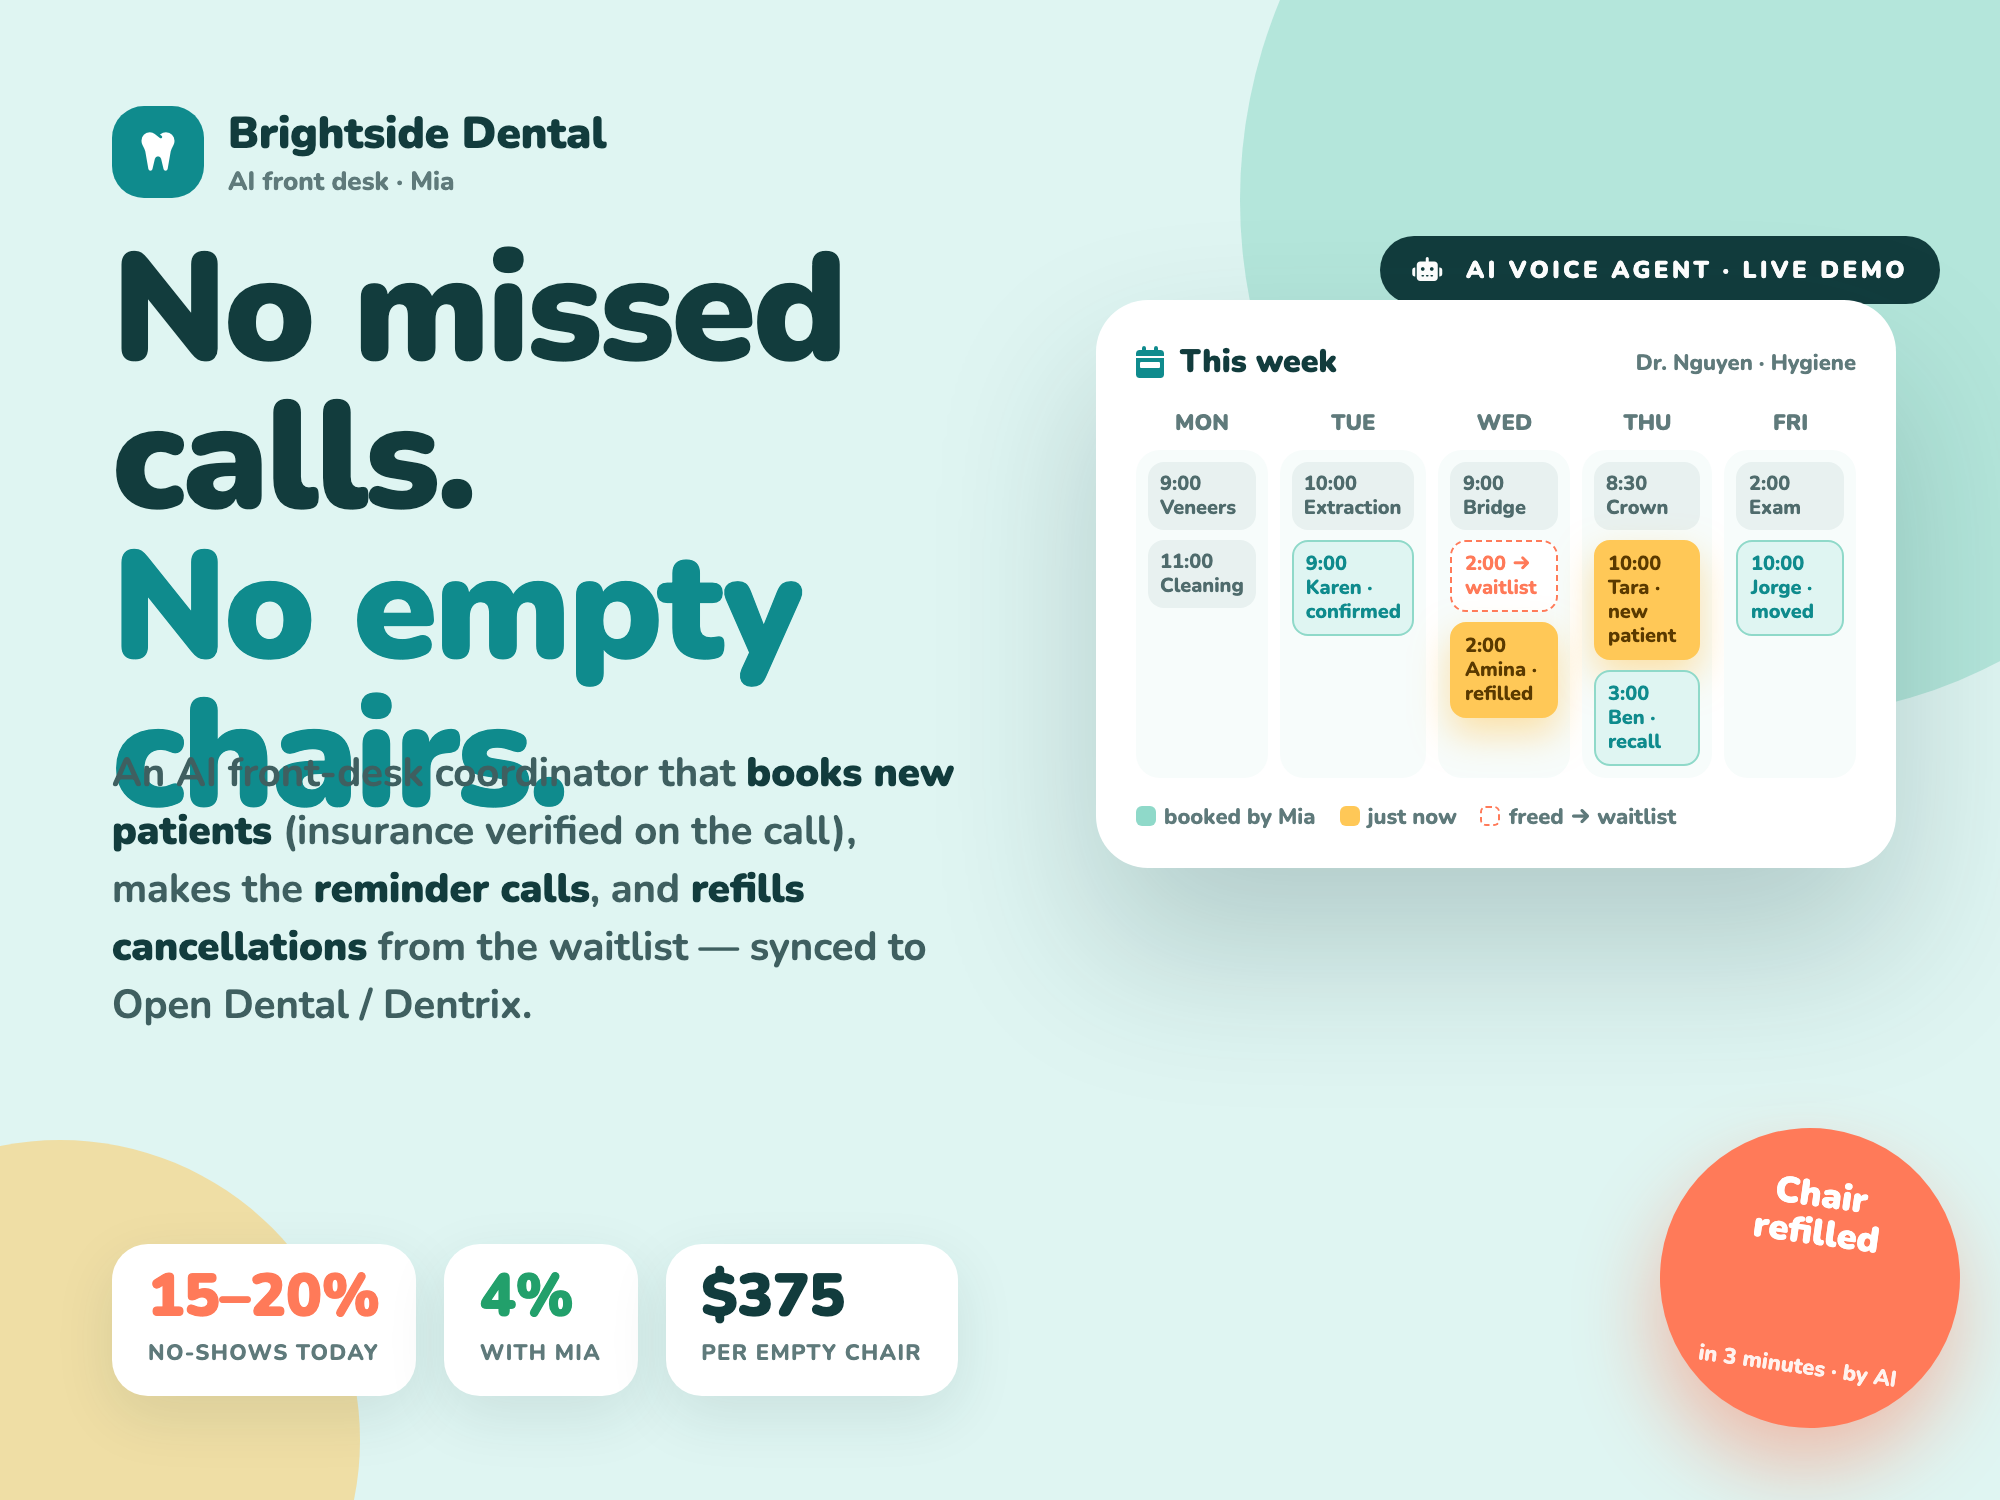
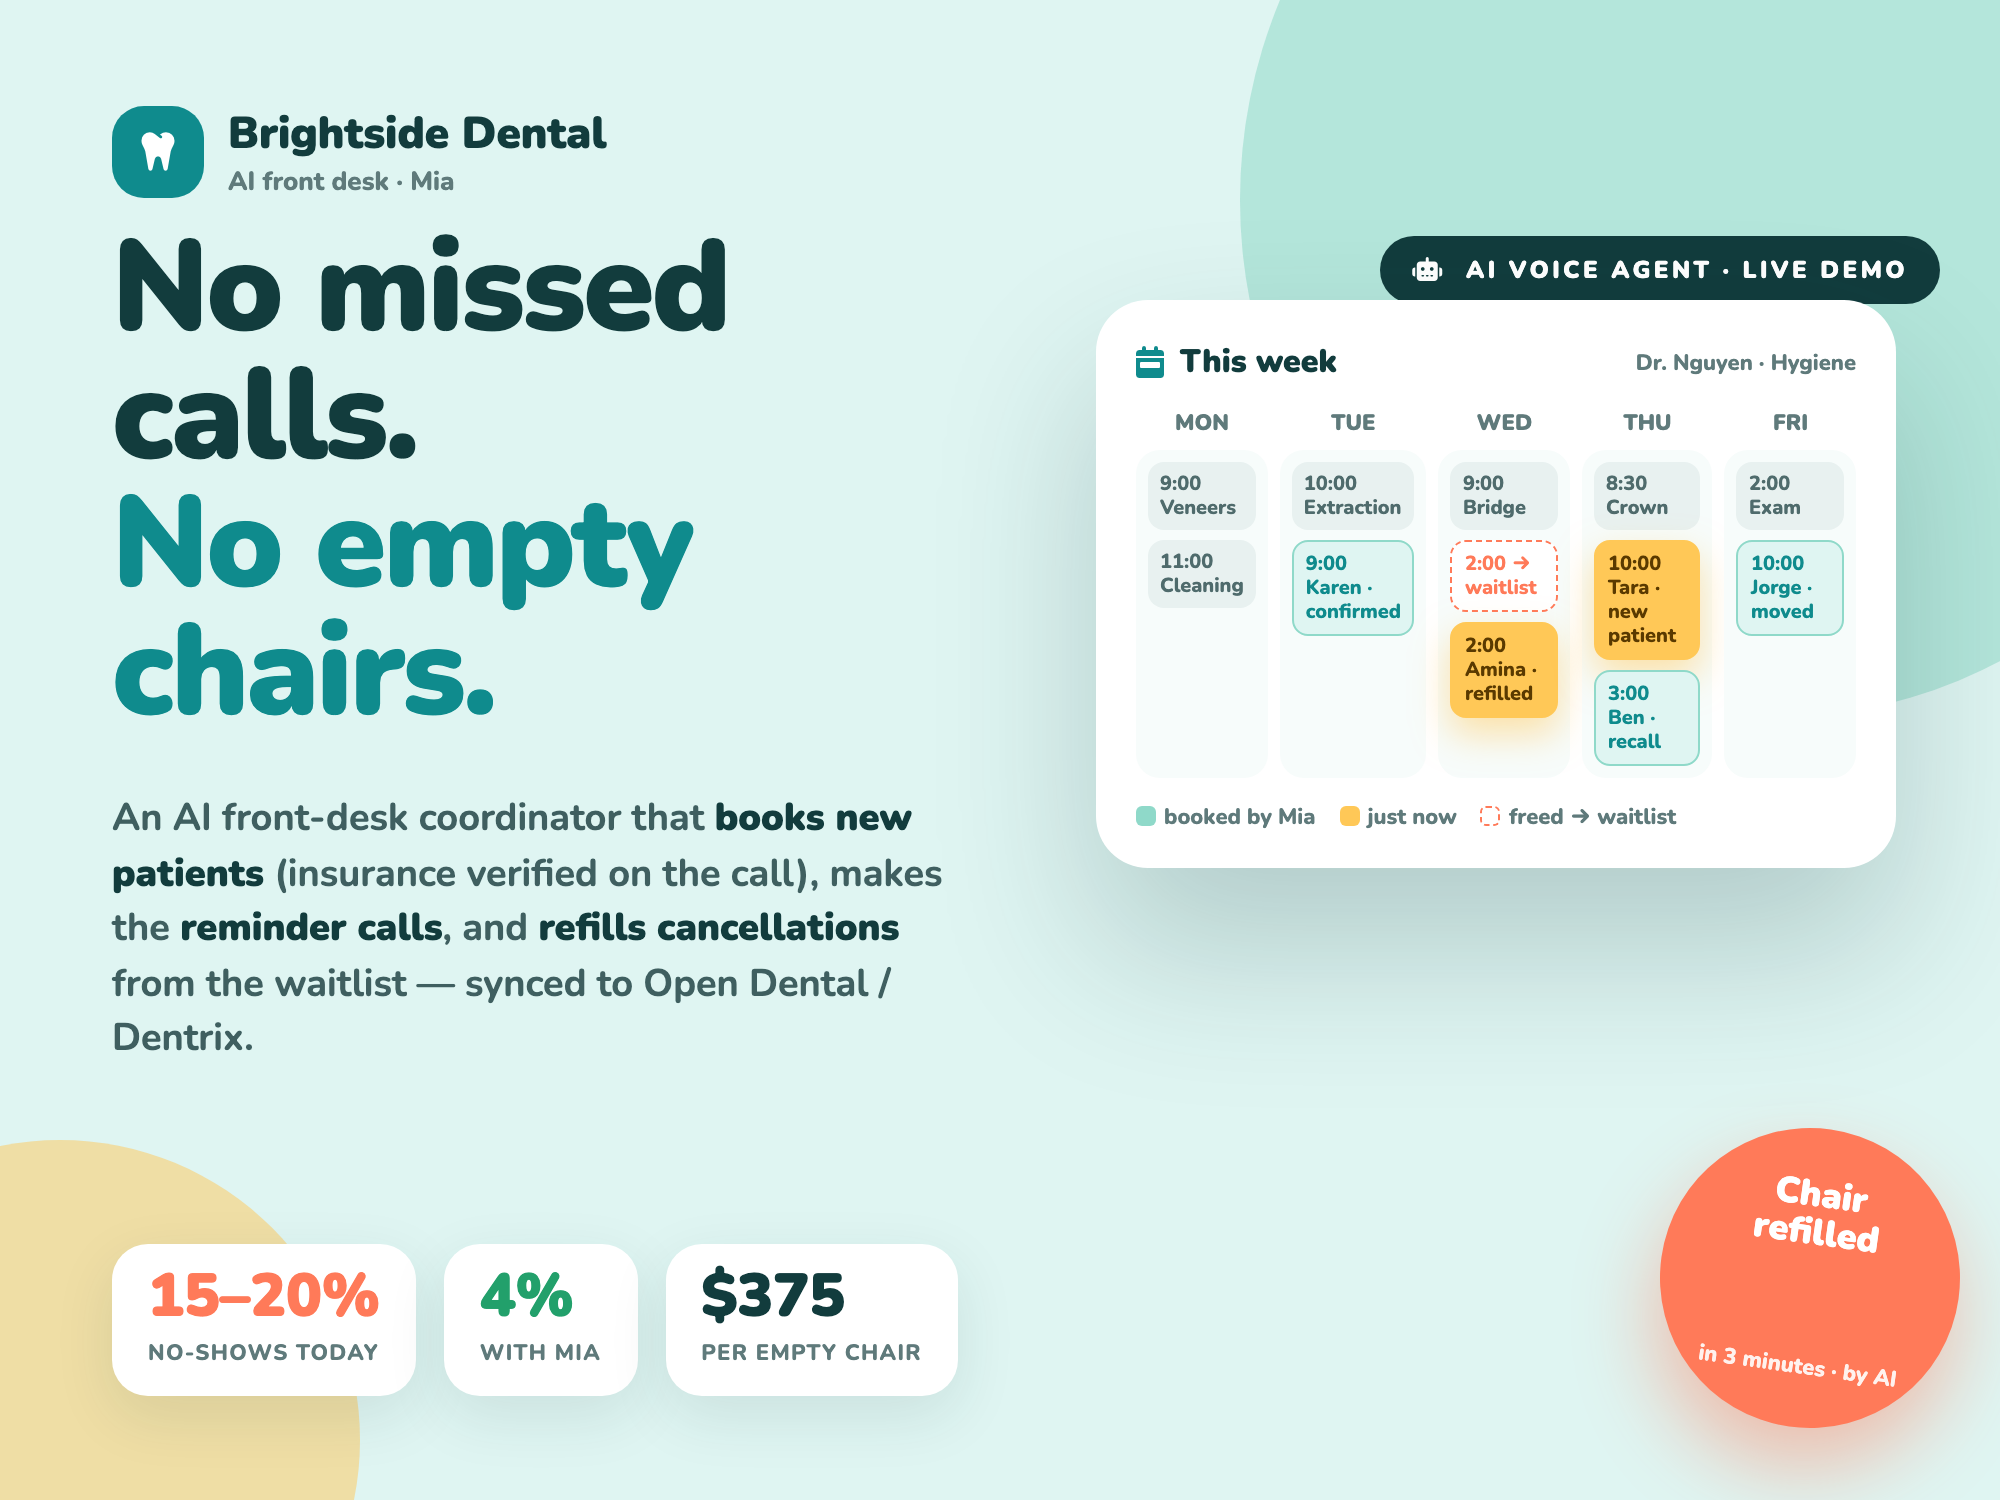
Brightside thumbnail fix

Changed region(s): [[0.031, 0.1533, 0.496, 0.7053]]

diff --git a/docs/thumb-dental.html b/docs/thumb-dental.html
@@ -9,9 +9,9 @@ body{width:1000px;height:750px;overflow:hidden;position:relative;background:#dff
 .brand{position:absolute;left:56px;top:52px;display:flex;align-items:center;gap:12px}
 .brand .lg{width:46px;height:46px;border-radius:16px;background:#0f8b8d;color:#fff;display:grid;place-items:center;font-size:22px}
 .brand b{font-size:22px;font-weight:900}.brand span{font-size:13px;color:#5f7a7b;font-weight:800;display:block}
-h1{position:absolute;left:56px;top:118px;font-size:76px;line-height:.98;font-weight:900;width:520px;letter-spacing:-.02em}
+h1{position:absolute;left:56px;top:112px;font-size:64px;line-height:1;font-weight:900;width:520px;letter-spacing:-.02em}
 h1 b{color:#0f8b8d}
-.sub{position:absolute;left:56px;top:372px;width:430px;font-size:20px;line-height:1.45;color:#3f5f60;font-weight:700}
+.sub{position:absolute;left:56px;top:396px;width:440px;font-size:19px;line-height:1.45;color:#3f5f60;font-weight:700}
 .sub b{color:#123c3d;font-weight:900}
 .stats{position:absolute;left:56px;bottom:52px;display:flex;gap:14px}
 .stats div{background:#fff;border-radius:18px;padding:12px 18px;box-shadow:0 10px 30px rgba(18,60,61,.10)}
@@ -37,7 +37,7 @@ h1 b{color:#0f8b8d}
 </style></head><body>
 <div class="blob b1"></div><div class="blob b2"></div>
 <div class="brand"><div class="lg"><i class="fa-solid fa-tooth"></i></div><div><b>Brightside Dental</b><span>AI front desk · Mia</span></div></div>
-<h1>No missed calls.<br/><b>No empty chairs.</b></h1>
+<h1>No missed<br/>calls.<br/><b>No empty<br/>chairs.</b></h1>
 <div class="sub">An AI front-desk coordinator that <b>books new patients</b> (insurance verified on the call), makes the <b>reminder calls</b>, and <b>refills cancellations</b> from the waitlist — synced to Open Dental / Dentrix.</div>
 <div class="stats"><div><b class="r">15–20%</b><span>no-shows today</span></div><div><b class="g">4%</b><span>with Mia</span></div><div><b>$375</b><span>per empty chair</span></div></div>
 <div class="badge"><i class="fa-solid fa-robot"></i> &nbsp;AI voice agent · live demo</div>
